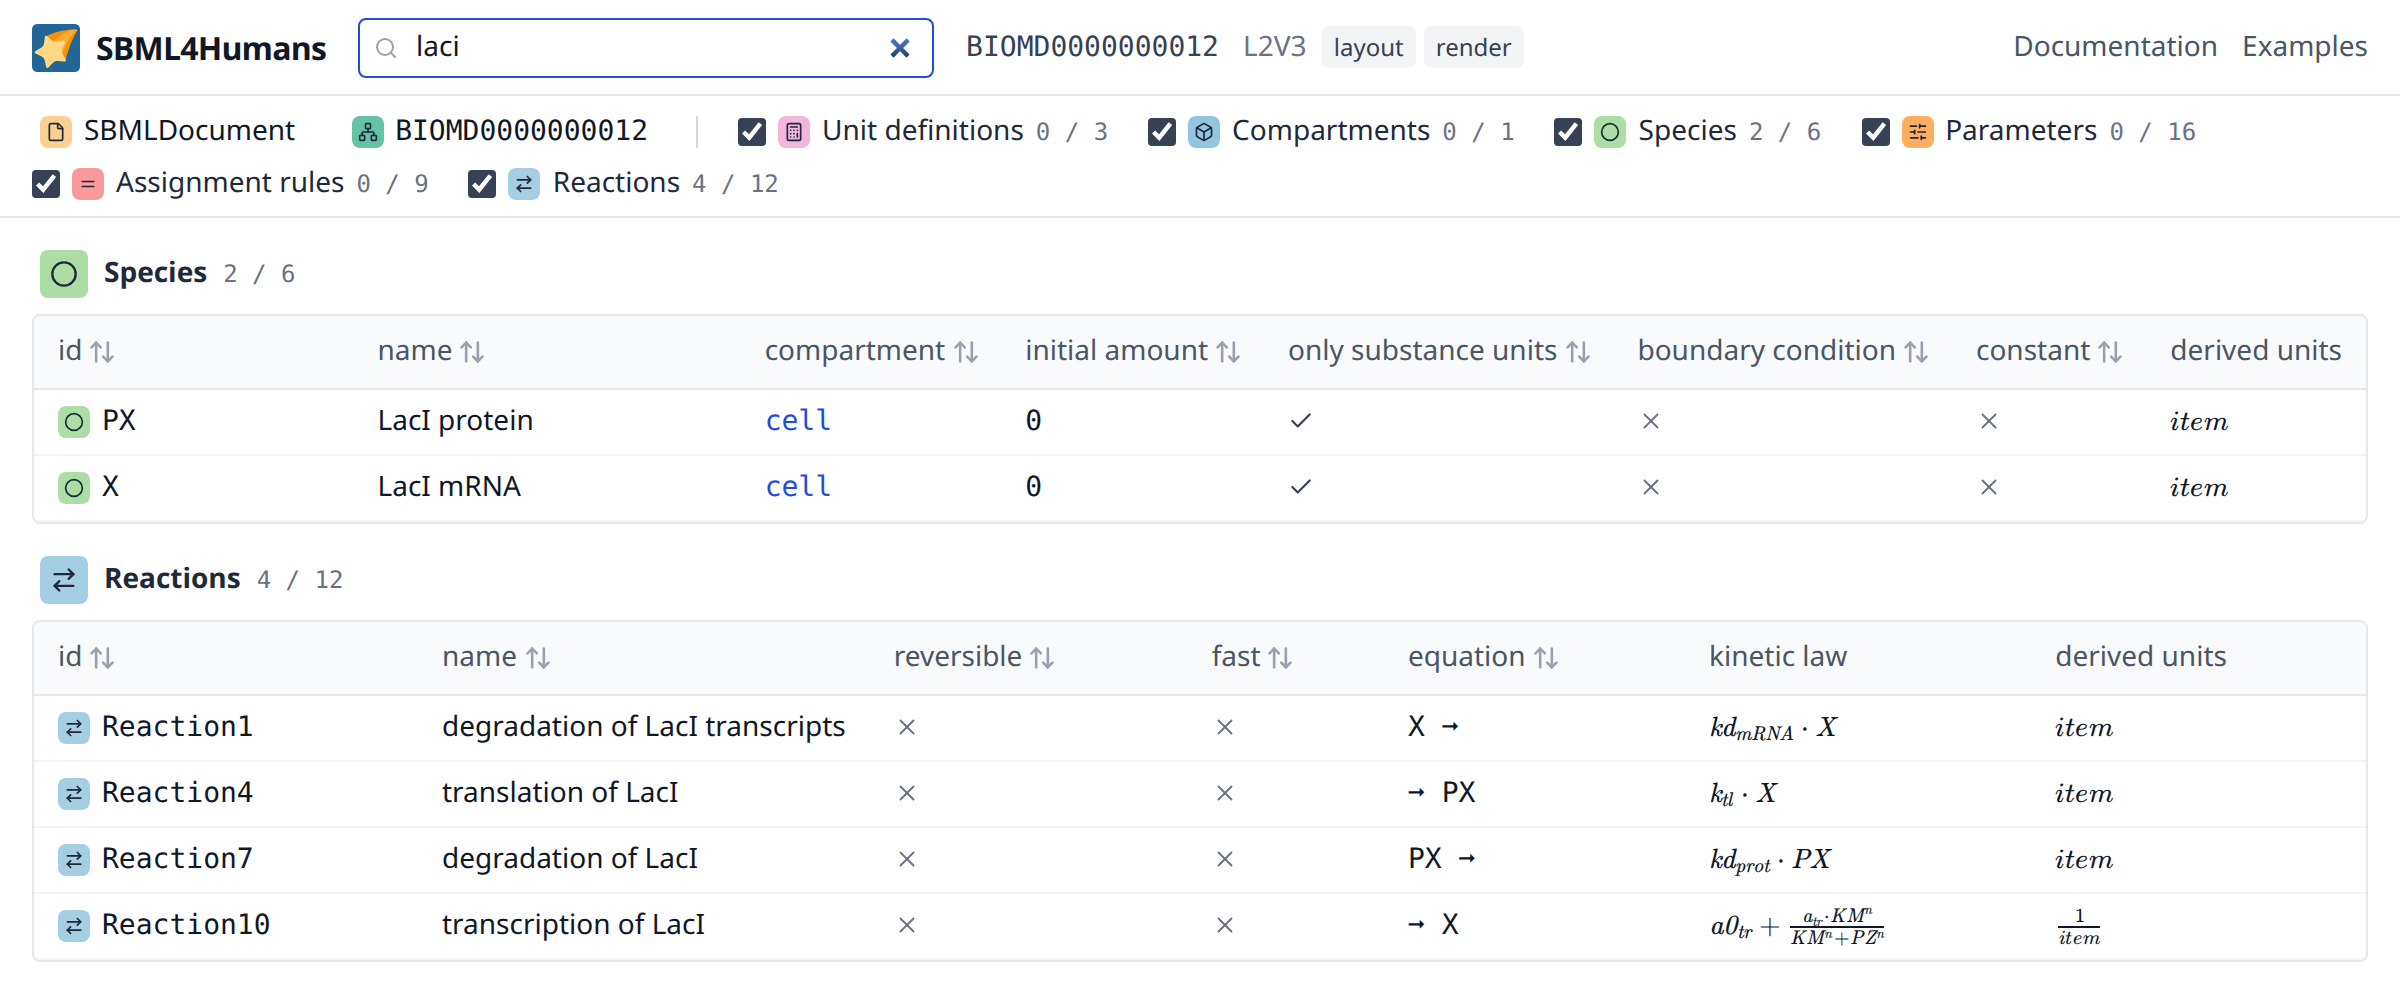
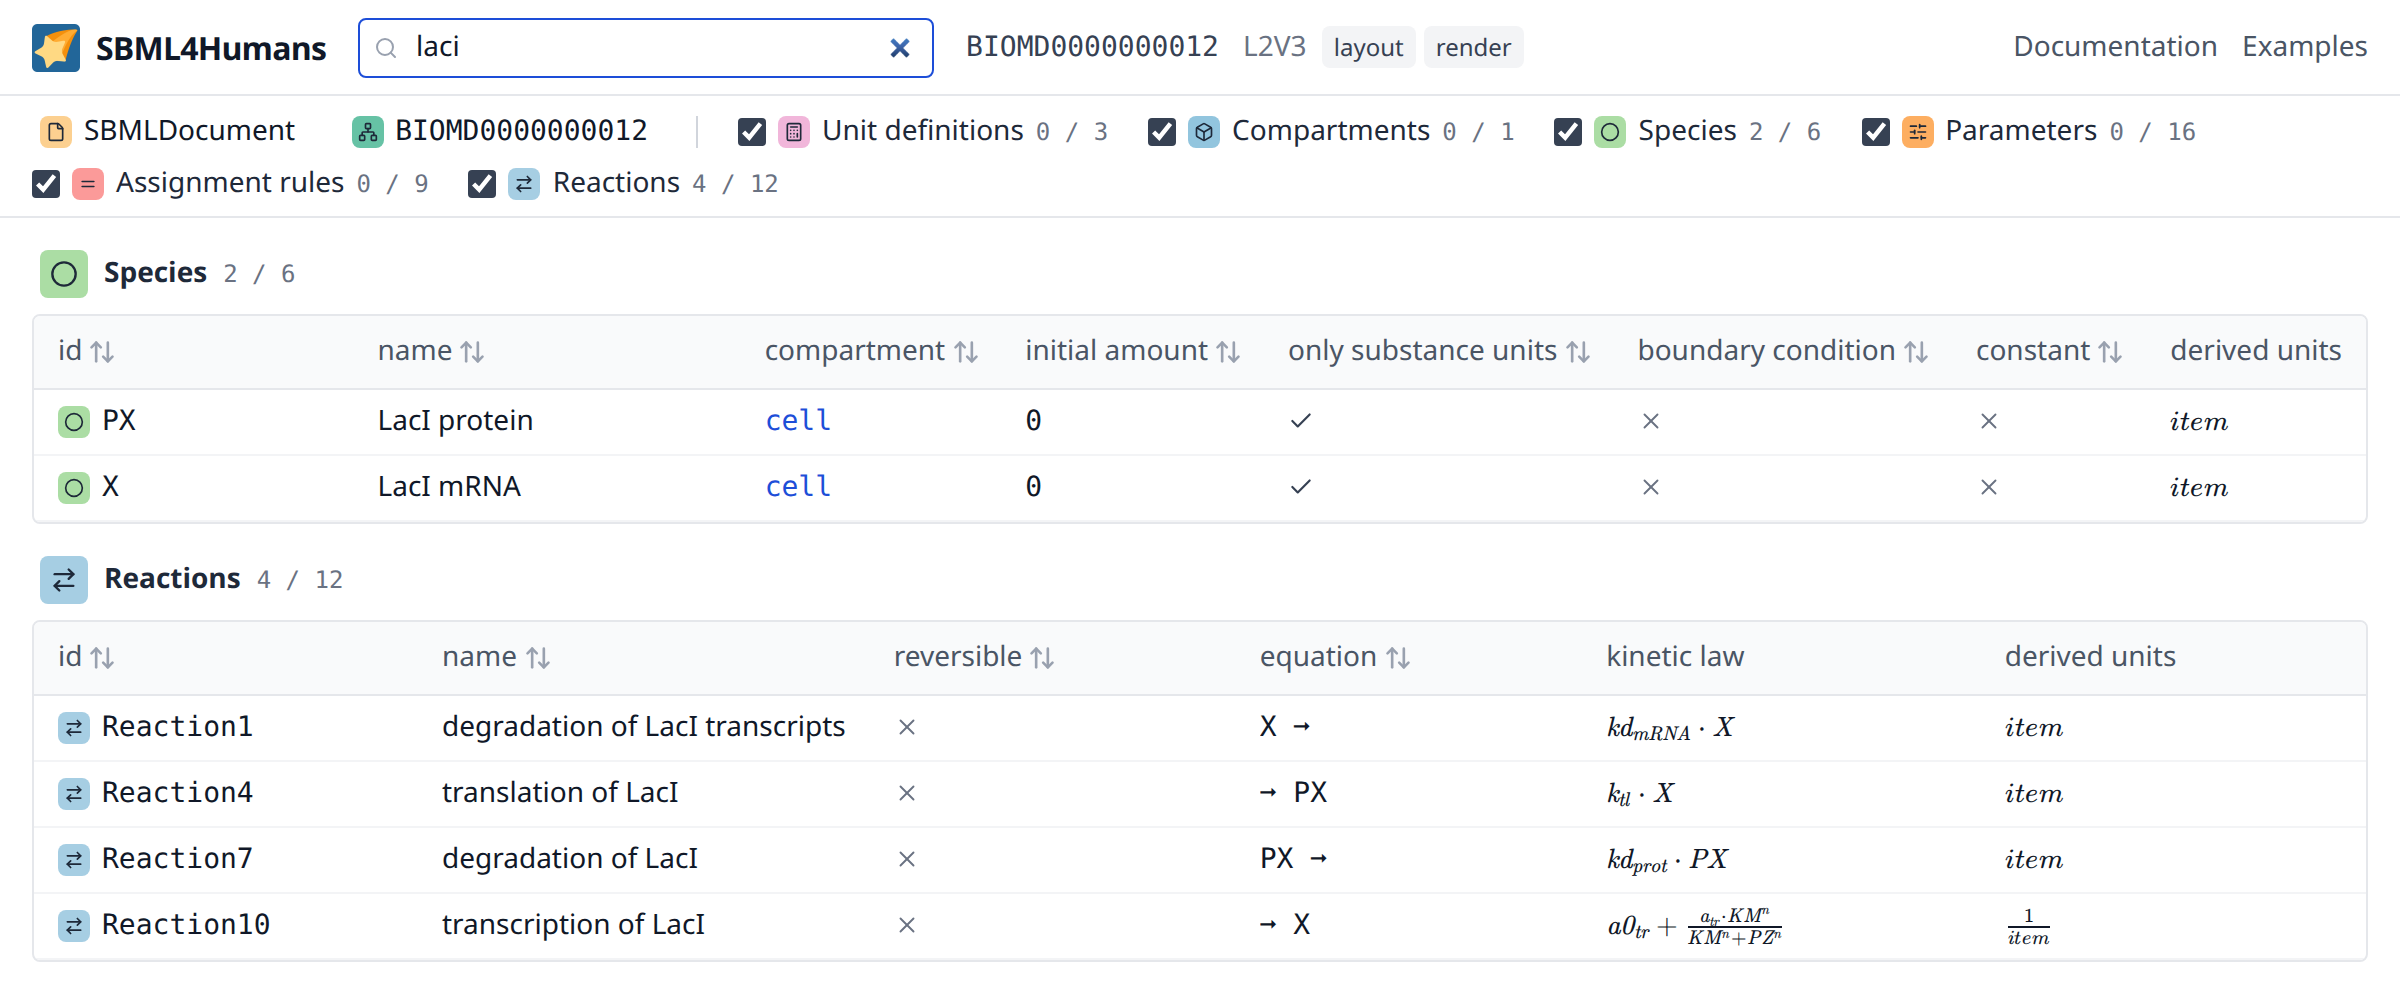
Show the fast column only when a reaction of the model is fast
A Level 2 file gives every reaction the default false of its specification and Level 3 Version 2 dropped the attribute, so the column read the same cross in every row of all 49 curated BioModels, while a single fast reaction is what a reader has to see.

Claude-Session: https://claude.ai/code/session_01H6NLTR8e7djzBnAwwiXkiU

diff --git a/frontend/tests/unit/columns.test.ts b/frontend/tests/unit/columns.test.ts
@@ -88,6 +88,18 @@ describe("columns", () => {
     expect(headers("Species", repressilator, "BIOMD0000000012")).toContain("initial amount");
   });
 
+  it("shows the fast column only in a table which has a fast reaction", () => {
+    const reactions = repressilator.byType("BIOMD0000000012").get("Reaction") ?? [];
+    // a Level 2 file gives every reaction the default false of its specification, and a column
+    // of that default says nothing a reader looks for
+    expect(reactions.every((r) => (r as { fast?: unknown }).fast === false)).toBe(true);
+    const headers = (rows: readonly object[]) =>
+      visibleColumns("Reaction", rows).map((c) => c.header);
+    expect(headers(reactions)).not.toContain("fast");
+    const fast = reactions.map((r, k) => (k === 0 ? { ...r, fast: true } : r));
+    expect(headers(fast)).toContain("fast");
+  });
+
   it("writes a gene association as the expression it stands for", () => {
     const reaction = fbcConstraints.byType("fbc_constraints_v3").get("Reaction")![0]!;
     const association = (reaction as { fbc?: { geneProductAssociation?: unknown } }).fbc

diff --git a/frontend/src/report/columns/index.ts b/frontend/src/report/columns/index.ts
@@ -23,15 +23,15 @@ export function columnsOf(type: ElementType): readonly ColumnDef[] {
  * reader types. */
 export function visibleColumns(type: ElementType, rows: readonly object[]): readonly ColumnDef[] {
   const columns = columnsOf(type);
-  if (!columns.some((column) => column.optional)) return columns;
-  return columns.filter(
-    (column) =>
-      !column.optional ||
-      rows.some((row) => {
-        const value = fieldValue(row, column.field);
-        return value !== null && value !== undefined && value !== "";
-      }),
-  );
+  if (!columns.some((column) => column.optional || column.onlyWhenTrue)) return columns;
+  return columns.filter((column) => {
+    if (column.onlyWhenTrue) return rows.some((row) => fieldValue(row, column.field) === true);
+    if (!column.optional) return true;
+    return rows.some((row) => {
+      const value = fieldValue(row, column.field);
+      return value !== null && value !== undefined && value !== "";
+    });
+  });
 }
 
 /** The value of a dotted path, undefined when a step is missing. */

diff --git a/frontend/src/report/columns/types.ts b/frontend/src/report/columns/types.ts
@@ -32,6 +32,11 @@ export interface ColumnDef {
   /** A column which is left out of a table no row of which fills it: the fbc columns of a
    * species or a reaction of a model which does not use the package. */
   optional?: boolean;
+  /** A boolean column which is left out of a table no row of which sets it to true. `fast` is
+   * the one: a Level 2 file gives every reaction the default false of its specification, Level 3
+   * Version 2 dropped the attribute, and a column of that default says nothing, while a single
+   * fast reaction is exactly what a reader has to see. */
+  onlyWhenTrue?: boolean;
 }
 
 export const ID_COLUMNS: readonly ColumnDef[] = [

diff --git a/frontend/src/report/columns/core.ts b/frontend/src/report/columns/core.ts
@@ -90,7 +90,7 @@ export const CORE_COLUMNS: Readonly<Record<CoreType, readonly ColumnDef[]>> = {
   Reaction: [
     ...ID_COLUMNS,
     { field: "reversible", header: "reversible", kind: "boolean" },
-    { field: "fast", header: "fast", kind: "boolean", optional: true },
+    { field: "fast", header: "fast", kind: "boolean", onlyWhenTrue: true },
     {
       field: "compartment",
       header: "compartment",

diff --git a/docs/report.md b/docs/report.md
@@ -33,7 +33,7 @@ The columns of a table are those of the type, the attributes of the core and of 
 
 [![The type bar and the tables of a qualitative model, its qualitative species with their levels and its transitions with their influences](images/report-qual.png)](images/report-qual.png)
 
-A column which no row of the table fills is left out of it, so that a table shows what its model uses rather than what its type may carry. The flux bounds and the gene association of a reaction are in the table of a constraint based model and in no other, the initial concentration is in the table of a model which states one, and a model of Level 3 Version 2, which has no fast flag, does not carry that column. A reaction of Level 1 or 2 which does not write the flag has the default of its level, which is `false` from Level 2 Version 2 on. The decision is made over every row of the type and not over the rows a search leaves, so that a column does not come and go while a reader types, and a column of flags stays as soon as one row states one, because `false` is a value and an attribute which is not set is not.
+A column which no row of the table fills is left out of it, so that a table shows what its model uses rather than what its type may carry. The flux bounds and the gene association of a reaction are in the table of a constraint based model and in no other, the initial concentration is in the table of a model which states one, and a model of Level 3 Version 2, which has no fast flag, does not carry that column. A reaction of Level 1 or 2 which does not write the flag has the default of its level, which is `false` from Level 2 Version 2 on, and the fast column is shown only when a reaction of the model is fast: a column of that default in every row says nothing, while a single fast reaction is what a reader has to see. The decision is made over every row of the type and not over the rows a search leaves, so that a column does not come and go while a reader types, and any other column of flags stays as soon as one row states one, because `false` is a value and an attribute which is not set is not.
 
 The [reference](reference/index.md) page of a type explains every attribute the report shows for it, in two tables: the attributes the specification gives the type, and the fields the report computes on top of them. The columns of the table are spread over both tables, and the id and the name, with which every table starts, are explained once for all types on the [SBase](reference/sbase.md) page which every type page links. Hovering a column header shows the same explanation as one sentence.
 
